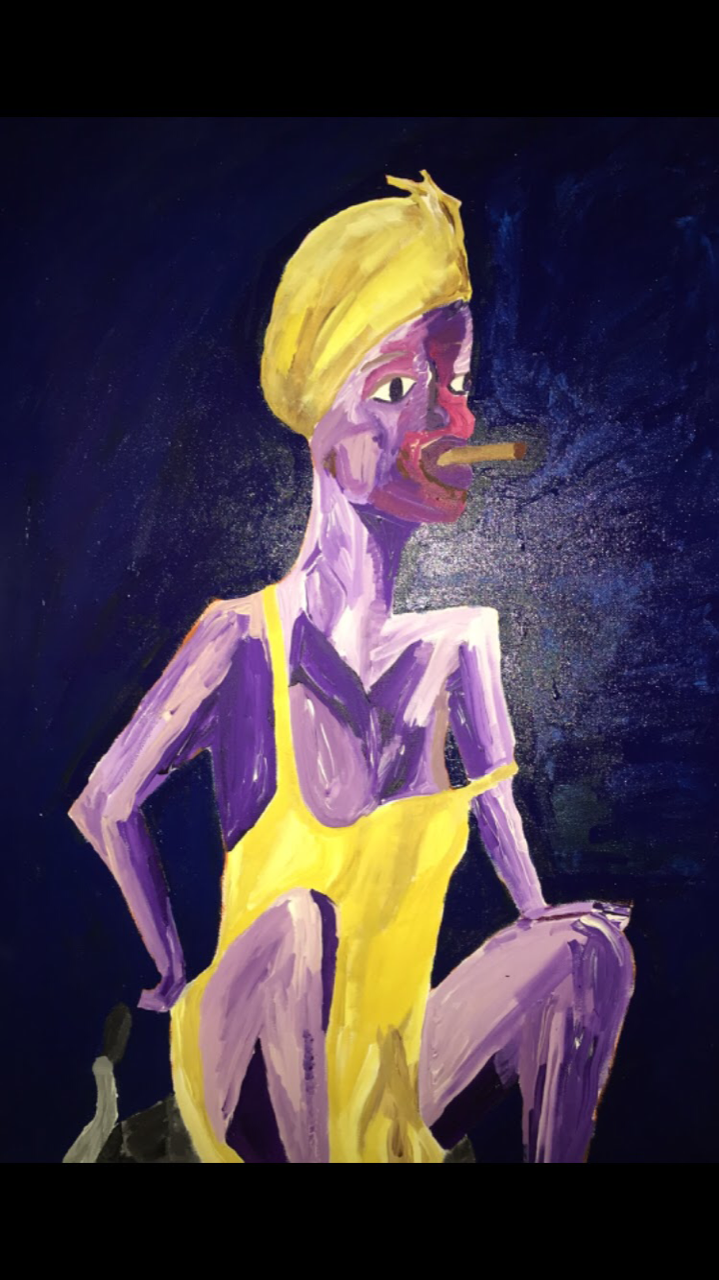
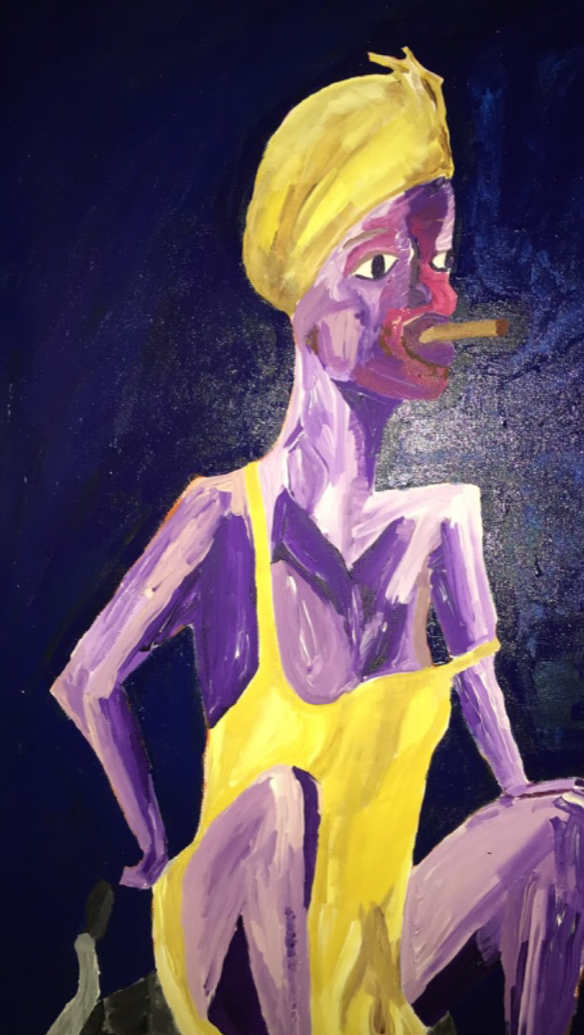
changed image size

diff --git a/assets/css/second.css b/assets/css/second.css
@@ -25,7 +25,7 @@ margin-left: 10%;
 
 .pics{
 
-width: 30%;
+width: 80%;
 height: 50%;
 margin: 3%;
 
